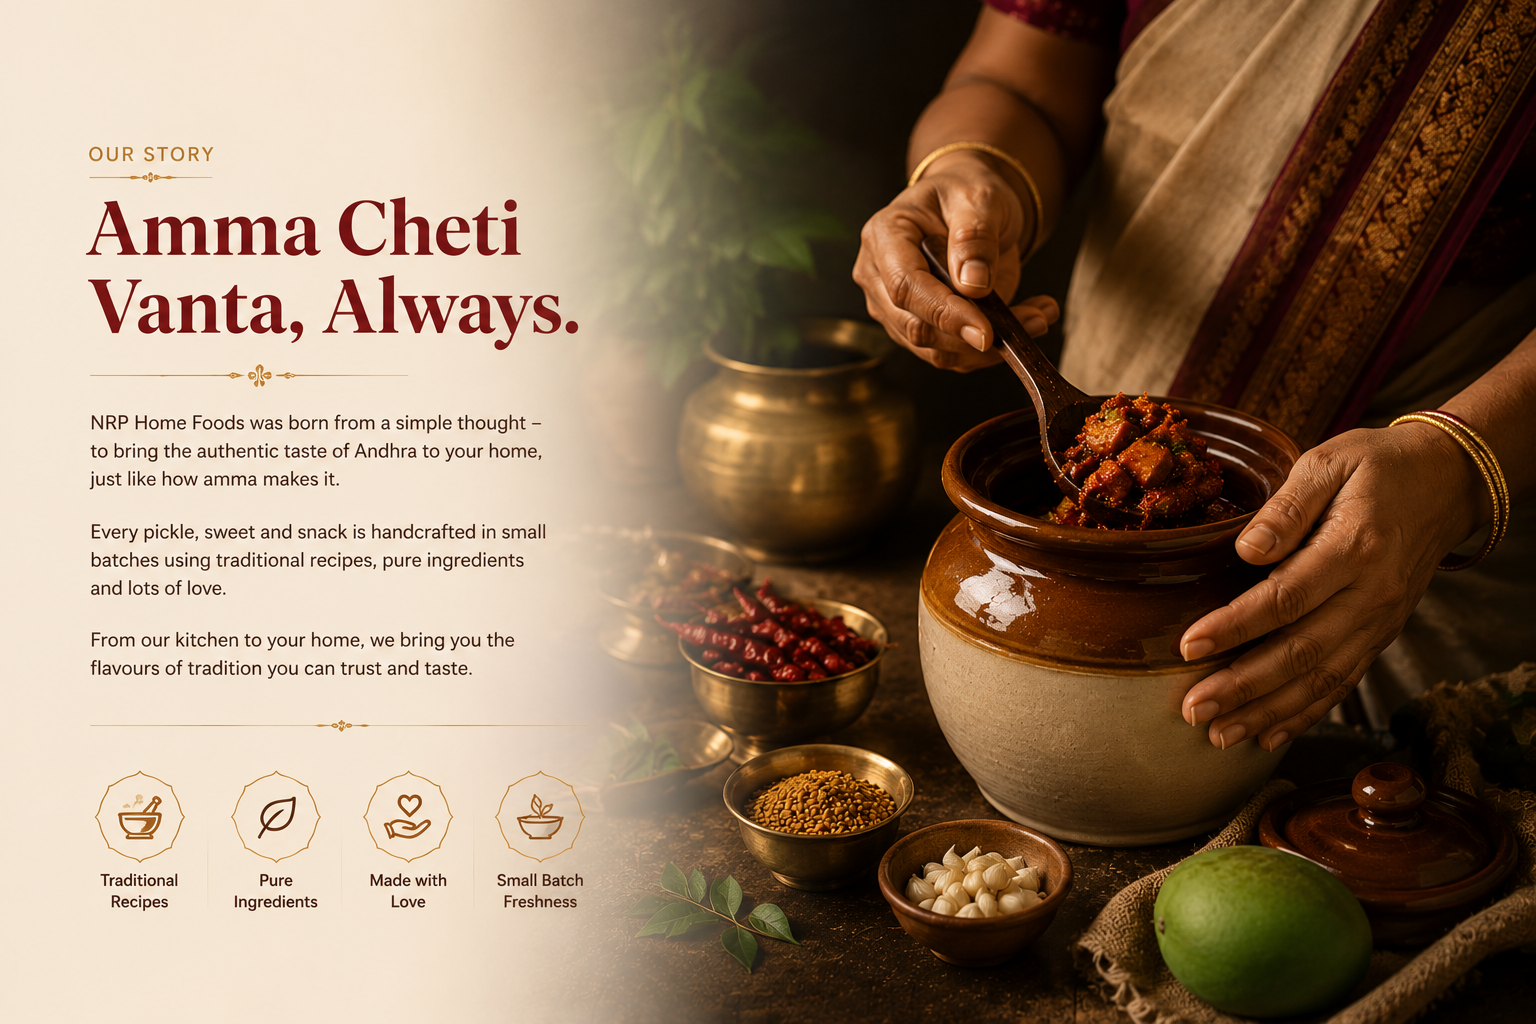
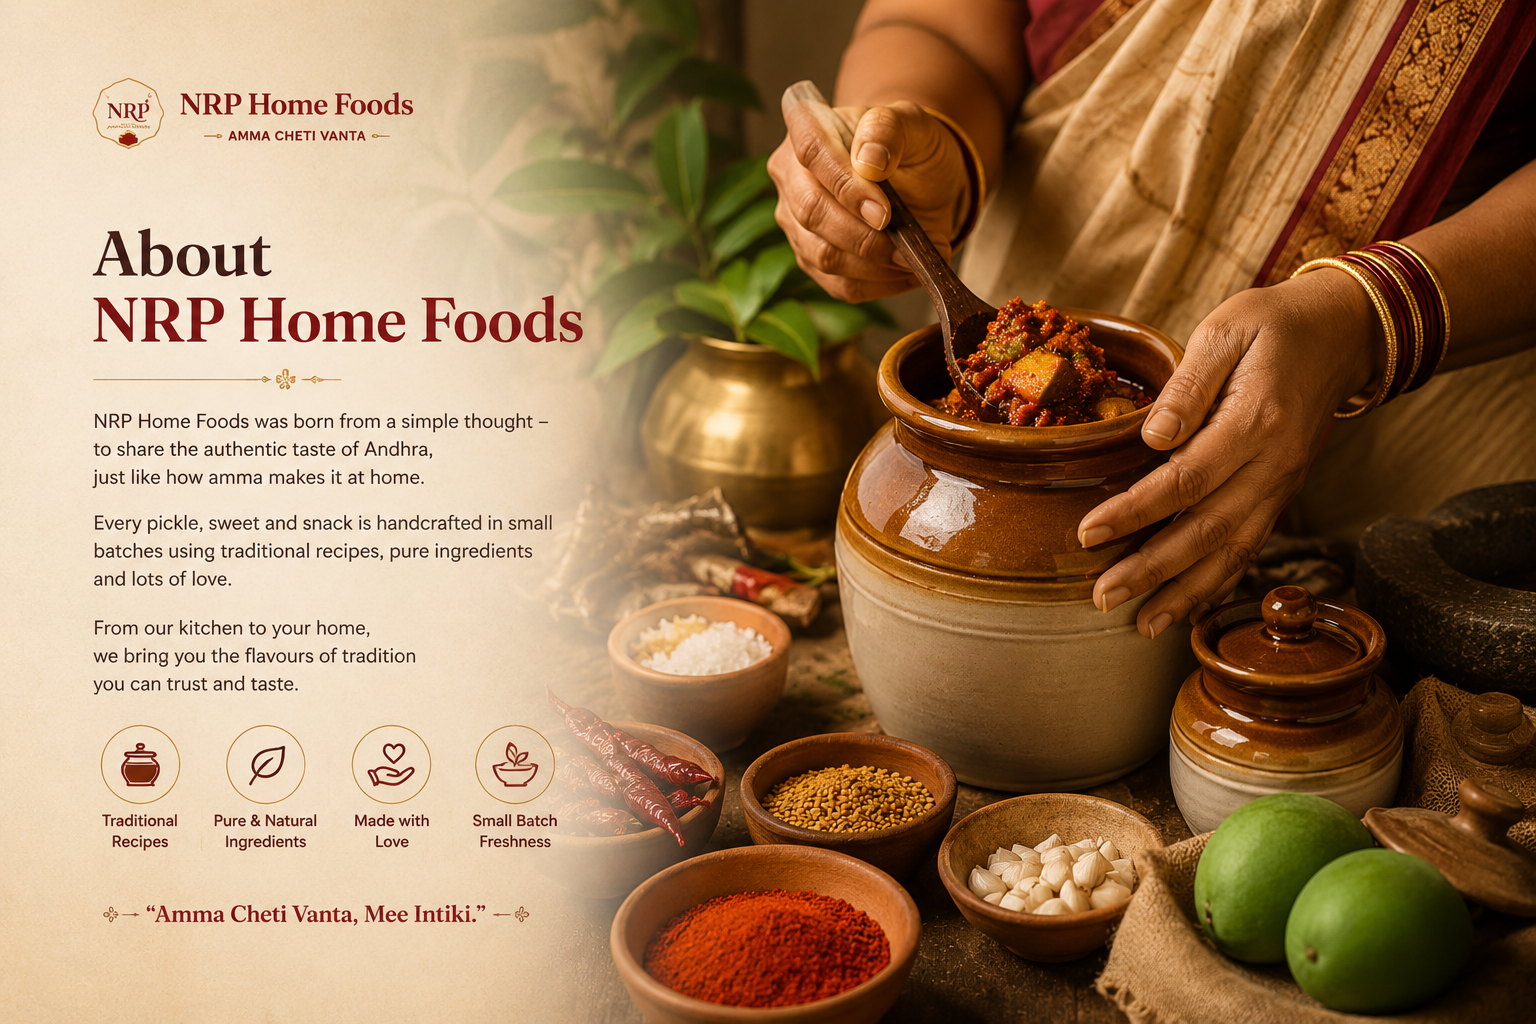
Reverted to commit fd47106087aabf653299df2f758eb3f77d623a38

diff --git a/src/components/AboutStory.tsx b/src/components/AboutStory.tsx
@@ -1,86 +1,74 @@
 import { motion } from "motion/react";
-import { BookOpen, Leaf, Heart, Sparkles } from "lucide-react";
+import { Link } from "@tanstack/react-router";
 import about from "@/assets/about-hands.png";
-
-const features = [
-  { icon: BookOpen, label: "Traditional Recipes" },
-  { icon: Leaf, label: "Pure Ingredients" },
-  { icon: Heart, label: "Made with Love" },
-  { icon: Sparkles, label: "Small Batch Freshness" },
-];
 
 export function AboutStory({ compact = false }: { compact?: boolean }) {
   return (
-    <section className="bg-gradient-warm py-20 md:py-28">
-      <div className="mx-auto grid max-w-7xl items-center gap-12 px-4 md:grid-cols-2 md:gap-16 md:px-8">
-        {/* LEFT — content */}
+    <section className="py-20 md:py-28">
+      <div className="mx-auto grid max-w-7xl items-center gap-12 px-4 md:grid-cols-2 md:px-8">
         <motion.div
-          initial={{ opacity: 0, y: 24 }}
-          whileInView={{ opacity: 1, y: 0 }}
+          initial={{ opacity: 0, x: -30 }}
+          whileInView={{ opacity: 1, x: 0 }}
           viewport={{ once: true, margin: "-80px" }}
-          transition={{ duration: 0.7, ease: "easeOut" }}
+          transition={{ duration: 0.7 }}
+          className="relative"
         >
-          <div className="flex items-center gap-3">
-            <span className="h-px w-10 bg-primary/50" />
-            <p className="text-xs font-semibold uppercase tracking-[0.28em] text-primary">
-              Our Story
-            </p>
+          <div className="relative overflow-hidden rounded-3xl shadow-card">
+            <img
+              src={about}
+              alt="A pair of hands carefully filling a glass jar with homemade Andhra pickle"
+              loading="lazy"
+              width={1200}
+              height={1000}
+              className="h-[420px] w-full object-cover md:h-[540px]"
+            />
           </div>
-
-          <h2 className="mt-5 text-balance font-serif text-4xl leading-[1.1] text-primary md:text-5xl lg:text-6xl">
-            Amma Cheti Vanta, Always.
-          </h2>
-
-          <div className="mt-6 h-px w-24 bg-gradient-to-r from-primary/40 to-transparent" />
-
-          <p className="mt-6 max-w-xl text-base leading-relaxed text-muted-foreground md:text-lg">
-            Every jar, every sweet, every snack carries the warmth of home.
-            Inspired by authentic Andhra traditions, our recipes are lovingly
-            prepared in small batches using trusted ingredients — bringing the
-            taste of home to your doorstep.
-          </p>
-
-          <div className="mt-10 grid grid-cols-2 gap-5 sm:grid-cols-4 md:gap-4">
-            {features.map((f, i) => (
-              <motion.div
-                key={f.label}
-                initial={{ opacity: 0, y: 16 }}
-                whileInView={{ opacity: 1, y: 0 }}
-                viewport={{ once: true, margin: "-60px" }}
-                transition={{ duration: 0.5, delay: 0.1 + i * 0.08 }}
-                className="group flex flex-col items-center text-center"
-              >
-                <div className="flex h-14 w-14 items-center justify-center rounded-full border border-primary/25 bg-background/60 text-primary shadow-soft transition-all duration-300 group-hover:-translate-y-0.5 group-hover:border-primary/50 group-hover:shadow-hover">
-                  <f.icon className="h-6 w-6" strokeWidth={1.5} />
-                </div>
-                <p className="mt-3 text-xs font-medium leading-tight text-foreground/80">
-                  {f.label}
-                </p>
-              </motion.div>
-            ))}
+          <div className="absolute -bottom-6 -right-4 hidden rounded-2xl bg-primary px-6 py-5 text-primary-foreground shadow-hover md:block">
+            <p className="font-script text-3xl leading-none">Made with love</p>
+            <p className="mt-1 text-xs uppercase tracking-[0.2em] opacity-80">Since the very first jar</p>
           </div>
         </motion.div>
 
-        {/* RIGHT — uploaded image */}
         <motion.div
           initial={{ opacity: 0, x: 30 }}
           whileInView={{ opacity: 1, x: 0 }}
           viewport={{ once: true, margin: "-80px" }}
-          transition={{ duration: 0.8, ease: "easeOut" }}
-          className="relative"
+          transition={{ duration: 0.7, delay: 0.1 }}
         >
-          <div className="relative overflow-hidden rounded-3xl shadow-hover">
-            <img
-              src={about}
-              alt="Amma's hands serving freshly made Andhra pickle from a clay pot — traditional homemade recipe"
-              loading="lazy"
-              width={1500}
-              height={1000}
-              className="h-[420px] w-full object-cover md:h-[560px]"
-            />
-            {/* Soft fade/blend on the left edge so the image melts into the cream background */}
-            <div className="pointer-events-none absolute inset-y-0 left-0 w-1/3 bg-gradient-to-r from-background/70 via-background/20 to-transparent" />
+          <p className="text-xs font-semibold uppercase tracking-[0.22em] text-primary">Our story</p>
+          <h2 className="mt-3 text-balance font-serif text-3xl leading-tight text-foreground md:text-5xl">
+            Born from longing, served with love.
+          </h2>
+          <div className="mt-6 space-y-4 text-base leading-relaxed text-muted-foreground">
+            <p>
+              NATURAL RECIPE PRODUCTS began in a small Andhra kitchen, with a daughter calling
+              home and asking — "Amma, can you send me a jar of avakaya?"
+              That one jar became two, then ten, then a family of recipes
+              travelling across cities and oceans.
+            </p>
+            <p>
+              We hand-pick mangoes in season, sun-cure them on cotton cloth,
+              and pour cold-pressed sesame oil over freshly pounded mustard
+              and chilli. Every sweet is shaped by hand. Every podi is roasted
+              in small batches. Nothing is rushed. Nothing is faked.
+            </p>
+            {!compact && (
+              <p>
+                If you grew up on Sunday meals of curd-rice with avakaya, on
+                Sankranti mornings filled with the smell of frying ariselu —
+                we made NATURAL RECIPE PRODUCTS for you.
+              </p>
+            )}
           </div>
+
+          {compact ? (
+            <Link
+              to="/about"
+              className="mt-8 inline-flex items-center gap-2 rounded-full border border-primary/30 px-6 py-3 text-sm font-medium text-primary hover:bg-primary hover:text-primary-foreground transition-all"
+            >
+              Read the full story
+            </Link>
+          ) : null}
         </motion.div>
       </div>
     </section>
